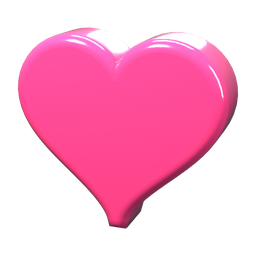
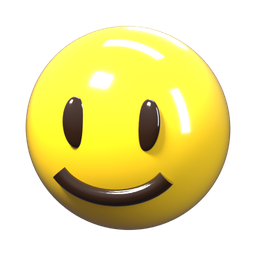
v0.24 F1c: happiness is the smiley again, redone: no cheeks, bigger eyes and smile, bolt yellow
Claude-Session: https://claude.ai/code/session_01HiFCSUdTabvLjsTaGfTQAK

diff --git a/tools/blender-shop/scripts/icons3d.py b/tools/blender-shop/scripts/icons3d.py
@@ -208,29 +208,34 @@ def make_fame():
 
 
 def make_happiness():
-    """A round, glossy smiley: warm yellow, dark eyes, a curved smile, pink cheeks."""
-    face = glossy('Face', '#ffce2e', rough=0.22)
-    dark = glossy('Eye', '#3b2410', rough=0.15)
-    pink = S.principled('Cheek', '#ff6fa8', rough=0.45, alpha=1.0)
-    parts = [sph('Head', (0, 0, 0), 1.0, face, scale=(1, 0.86, 1), seg=96, rings=48)]
+    """A round, glossy smiley in the bolt's yellow: two tall dark eyes and one
+    clean curved smile, sitting flush on the face. No cheeks (Harry, 2 Oct:
+    "remove the rosy pink cheeks", "cleaner and more polished")."""
+    face = glossy('Face', '#ffd21f', rough=0.14, emission='#ffb800', es=0.12)
+    dark = S.principled('Feature', '#2a1606', rough=0.12, coat=1.0, coat_rough=0.03, spec=0.7)
+    SY = 0.88  # the head is squashed front-to-back a little
+
+    def on_face(x, z, lift=0.0):
+        r2 = max(0.0, 1 - x * x - z * z)
+        return -SY * math.sqrt(r2) - lift
+
+    parts = [sph('Head', (0, 0, 0), 1.0, face, scale=(1, SY, 1), seg=128, rings=64)]
     for sx in (-1, 1):
-        e = sph(f'Eye{sx}', (0.34 * sx, -0.80, 0.24), 0.13, dark, scale=(0.8, 0.5, 1.25), seg=32, rings=16)
+        x, z = 0.31 * sx, 0.24
+        e = sph(f'Eye{sx}', (x, on_face(x, z, -0.02), z), 0.15, dark, scale=(0.80, 0.42, 1.50), seg=48, rings=24)
+        # turn each eye so it lies along the curve of the face
+        e.rotation_euler = (math.radians(-12), 0, math.radians(-18 * sx))
         parts.append(e)
-        c = sph(f'Cheek{sx}', (0.60 * sx, -0.62, -0.12), 0.17, pink, scale=(1.0, 0.35, 0.65), seg=32, rings=16)
-        c.rotation_euler = (0, 0, math.radians(-38 * sx))
-        parts.append(c)
-    # the smile: a curved tube following the front of the face
     from kit import tube
     pts = []
-    for k in range(13):
-        t = math.radians(-60 + 120 * k / 12)
-        x = 0.46 * math.sin(t)
-        z = -0.20 - 0.30 * math.cos(t) + 0.06
-        y = -0.86 * math.sqrt(max(0.0, 1 - x * x - z * z)) - 0.012
-        pts.append((x, y, z))
-    sm = tube('Smile', pts, 0.055, dark, res=6)
+    for k in range(17):
+        t = math.radians(-62 + 124 * k / 16)
+        x = 0.54 * math.sin(t)
+        z = -0.10 - 0.36 * math.cos(t) + 0.04
+        pts.append((x, on_face(x, z, 0.0), z))
+    sm = tube('Smile', pts, 0.085, dark, res=8)
     parts += convert_curves([sm])
-    return parts, dict(turn=-10, tilt=4, frame=[parts[0]], fill=0.80, expo=-0.35)
+    return parts, dict(turn=-10, tilt=4, frame=[parts[0]], fill=0.80, expo=-0.30)
 
 
 def make_heart():

diff --git a/tools/blender-shop/README.md b/tools/blender-shop/README.md
@@ -72,8 +72,8 @@ Harry, 2 Oct (P1-37, P1-38): a 3D icon sits ABOVE each top bar, as an overlay.
 | `public/icons3d/energy.png` | yellow lightning bolt | Energy |
 | `public/icons3d/world.png` | small Earth with clouds | Reputation ("world") |
 | `public/icons3d/fame.png` | gold crown with stones | Fame |
-| `public/icons3d/happiness.png` | pink heart (Harry did not like the smiley, 2 Oct) | Happiness |
-| `public/icons3d/heart.png` | pink heart (same file as happiness.png) | — |
+| `public/icons3d/happiness.png` | yellow smiley, no cheeks (redone 2 Oct: "cleaner and more polished") | Happiness |
+| `public/icons3d/heart.png` | pink heart (spare) | — |
 | `public/icons3d/money.png` | gold coin with a raised ★ | Money |
 | `public/icons3d/star-full.png`, `star-empty.png` | gold star and grey star, same shape and framing | Star rating: draw the grey one, then the gold one clipped from the bottom to the % through the level |
 
